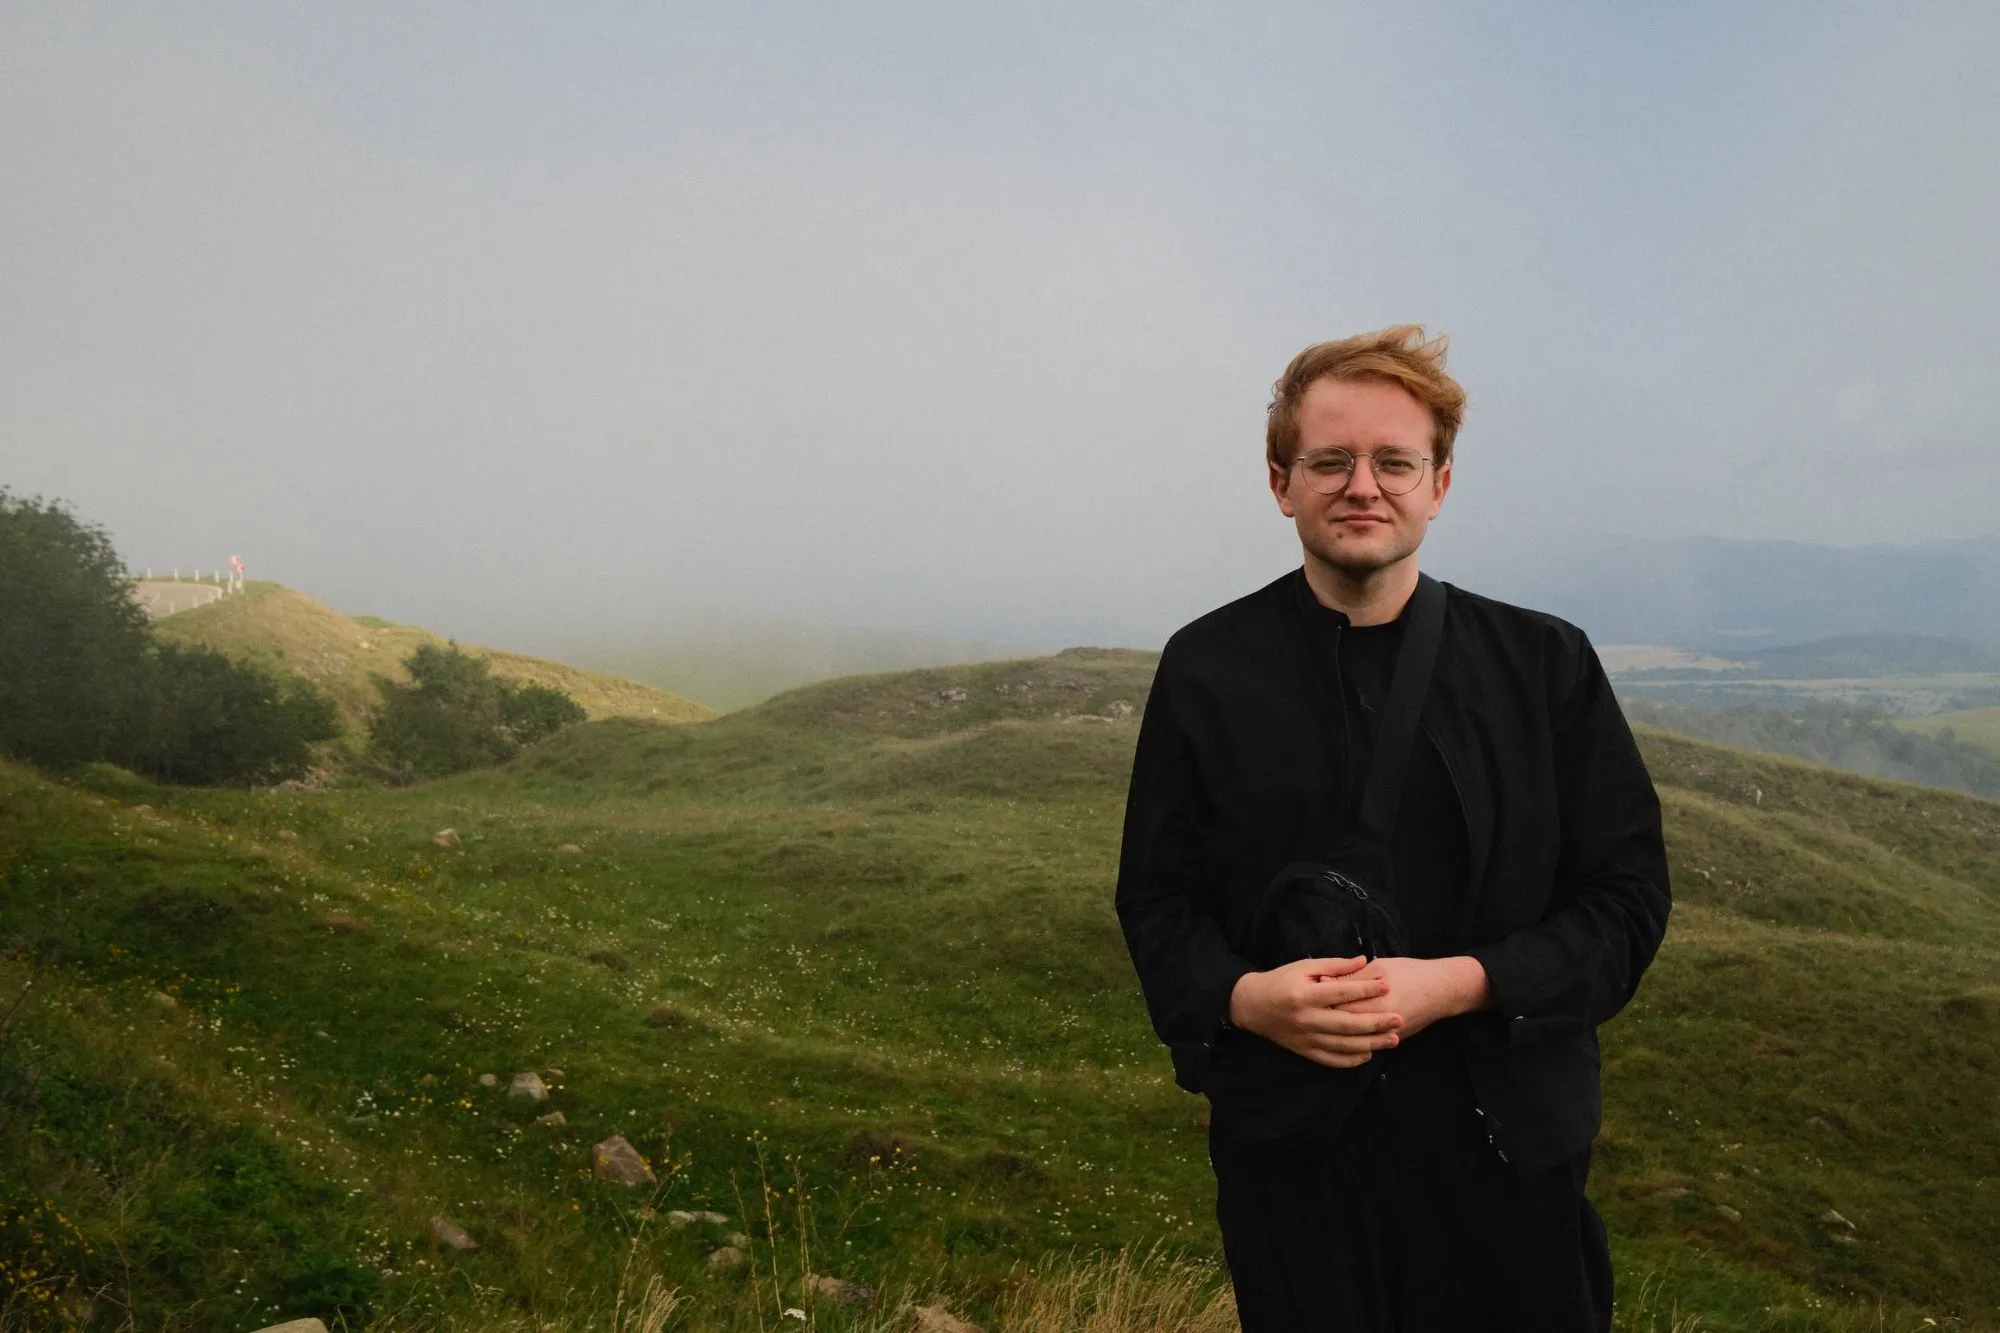
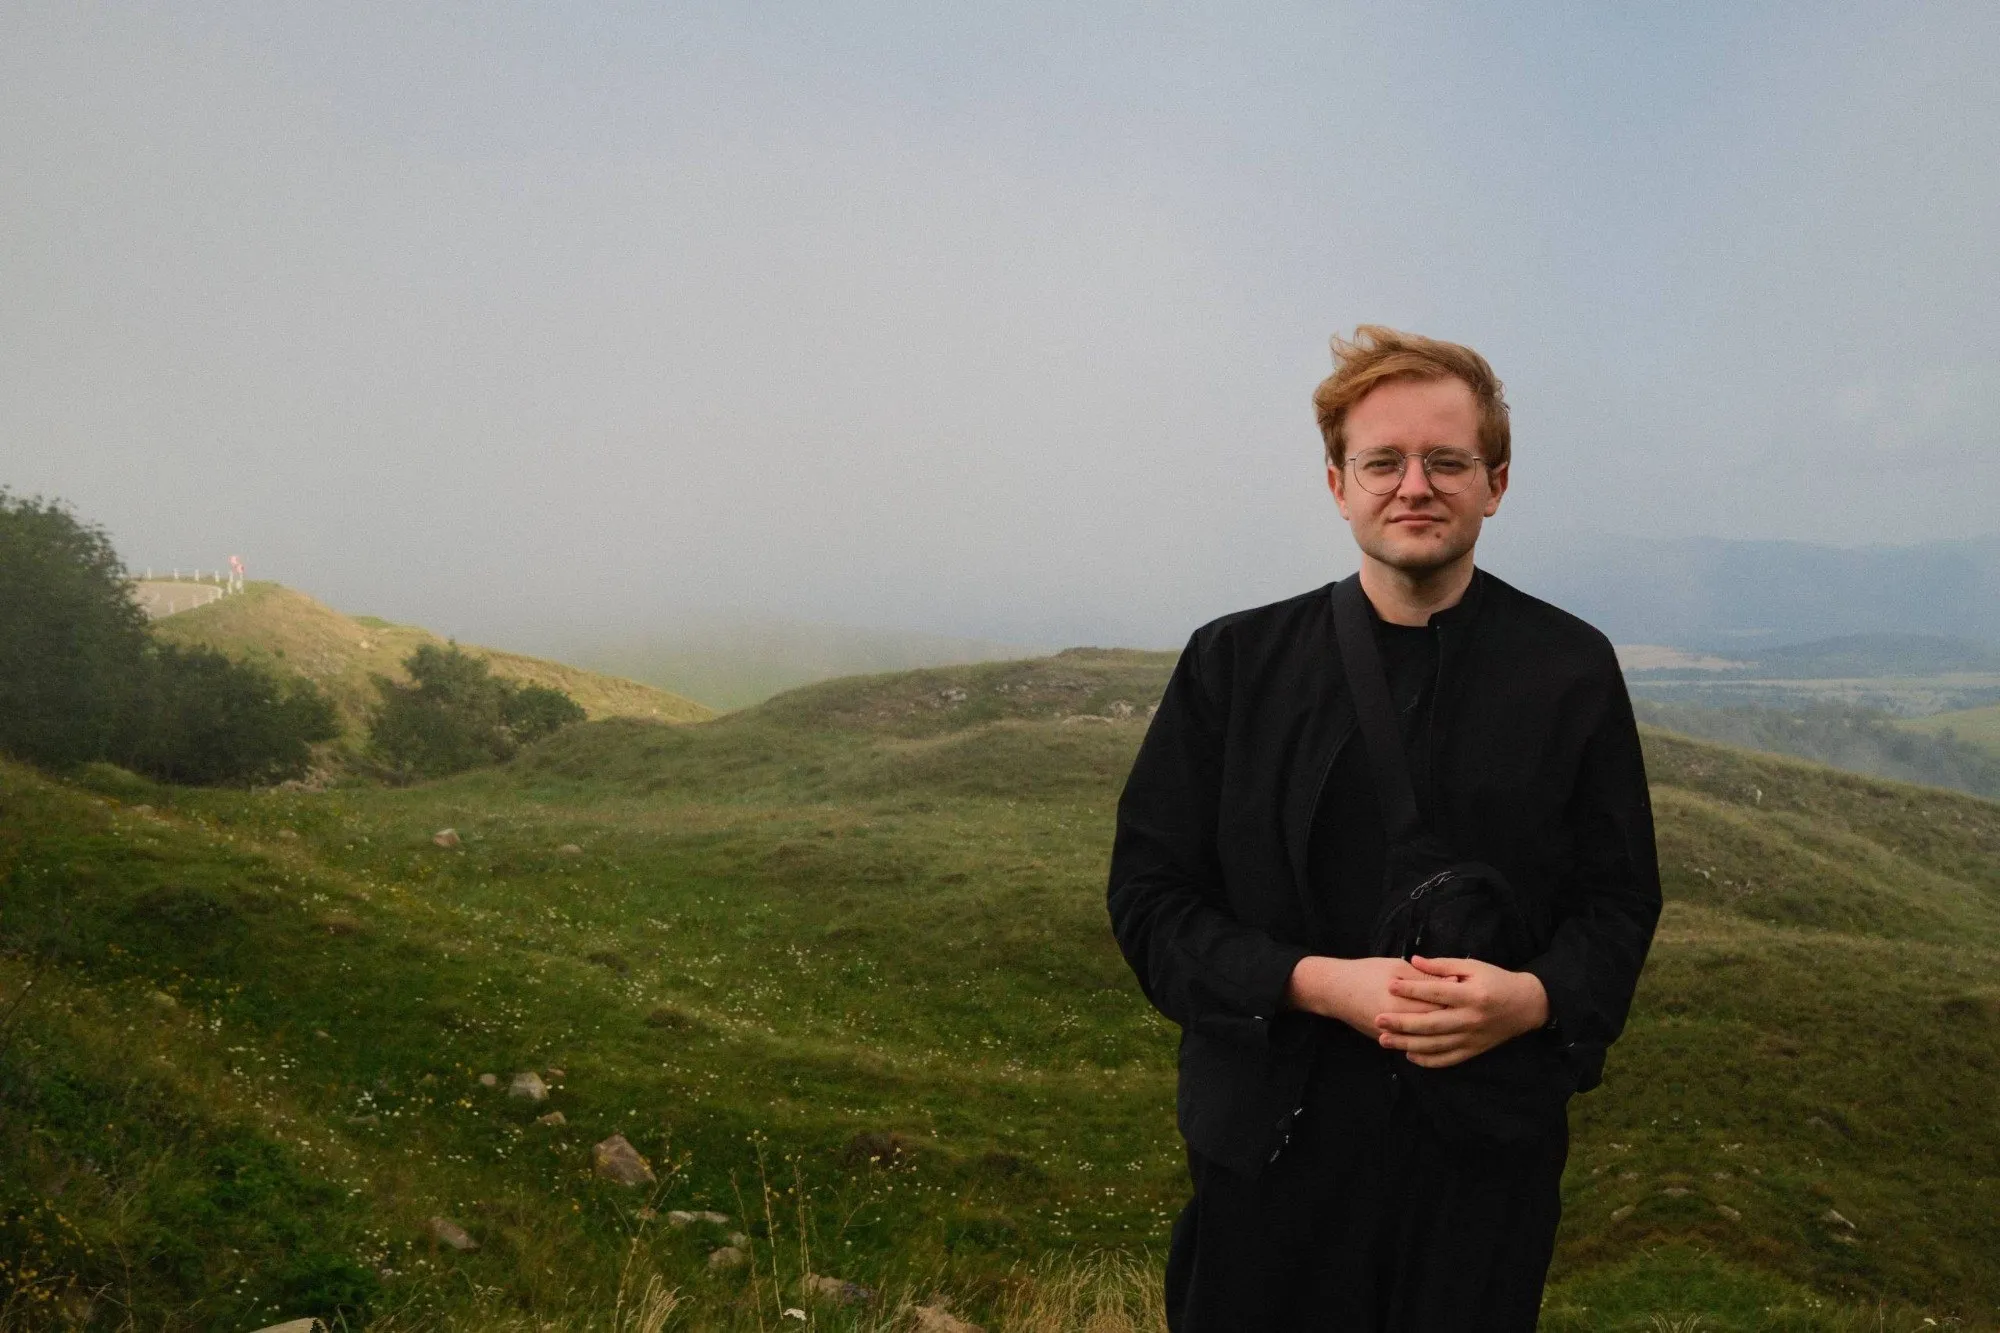
Hero photo: keep the person in his real orientation
The landscape stays mirrored so he stands on the right; the person is cut out
and flipped back in place, edges filled from the neighbouring background.

diff --git a/DESIGN.md b/DESIGN.md
@@ -161,7 +161,7 @@ A white page written like a Californian product launch, by a designer. The work 
 
 Density is generous and calm: wide sections (88 to 144px apart), a 1200px measure, headings set tight and heavy in Geist, body set soft in grey. Depth comes from tone (white against light grey), never from lines, glows or glass. Motion is a single quiet entrance on the first screen and small 200ms state changes everywhere else.
 
-This system replaces the retired "Glass Departures Board" world entirely (graphite, smoke, oxide LED, Urbanist, glass panels). The first viewport is a full-bleed photograph of Pavel on a misty hillside, mirrored so he stands on the right, with the promise set in white over the hills, the way OpenAI opens its pages.
+This system replaces the retired "Glass Departures Board" world entirely (graphite, smoke, oxide LED, Urbanist, glass panels). The first viewport is a full-bleed photograph of Pavel on a misty hillside, with the landscape mirrored so he stands on the right and the person kept in his real orientation, with the promise set in white over the hills, the way OpenAI opens its pages.
 
 **Key Characteristics:**
 - Pure white ground, near-black ink, one reading grey, one light-grey tile; no accent hue.
@@ -219,7 +219,7 @@ A monochrome Apple-light palette: ink, a softened ink, one grey, and two steps o
 
 A centred 1200px measure with a fluid gutter (`clamp(20px, 5vw, 64px)`), sections separated by space alone (`clamp(88px, 10vw, 144px)`). A sticky 64px header (60px under 900px) of frosted white sits over everything.
 
-- **Hero:** a full-bleed photograph (`hero-hills`, mirrored) filling the first viewport (`max(560px, min(100svh, 1040px))`), the header floating transparent over its sky until the page scrolls. Copy sits bottom-left on the page measure, over the hills, with a low dark scrim (bottom 70% of the height) behind it; the person stands on the right. On phones the photo is positioned on the person (`74% 30%`) and the copy sits over the lower half. A row of five grey company logos (50% opacity, full on hover) sits below, each linking to its case.
+- **Hero:** a full-bleed photograph (`hero-hills`, landscape mirrored, person unmirrored) filling the first viewport (`max(560px, min(100svh, 1040px))`), the header floating transparent over its sky until the page scrolls. Copy sits bottom-left on the page measure, over the hills, with a low dark scrim (bottom 70% of the height) behind it; the person stands on the right. On phones the photo is positioned on the person (`74% 30%`) and the copy sits over the lower half. A row of five grey company logos (50% opacity, full on hover) sits below, each linking to its case.
 - **Quotes:** three in a row on desktop; at 760px and under they become a one-at-a-time carousel with arrows and dots, rotating every 7s until a person picks one.
 - **Work list:** five grid rows (years, name and role, story, proof figure, view-case control) at 28px gaps. Under 1080px the control drops under the story; under 900px each row becomes a standing grey tile; under 560px the figure stacks.
 - **AI section:** a segmented tab track over a two-column panel (copy left, numbered stages right); one column under 900px.
@@ -293,7 +293,7 @@ Five rows that read as a ledger of proof, not five links.
 - **Phones (900px and under):** every row is a standing grey tile and the control is always a labelled white pill.
 
 ### Hero Photograph (signature)
-Pavel on a green hillside in mountain fog, mirrored, served as WebP at 800/1280/2000w with a JPEG fallback. The header (ink on the light sky) floats over it; the promise is white Geist 600 with a soft text shadow; the primary action is a white pill with ink text and the secondary a white underlined link. It settles in once on load (fade with a 1.04 to 1 scale over 1.6s) and stays still under reduced motion.
+Pavel on a green hillside in mountain fog: the landscape is mirrored, the person is cut out and flipped back in place so he keeps his real orientation. Served as WebP at 800/1280/2000w with a JPEG fallback. The header (ink on the light sky) floats over it; the promise is white Geist 600 with a soft text shadow; the primary action is a white pill with ink text and the secondary a white underlined link. It settles in once on load (fade with a 1.04 to 1 scale over 1.6s) and stays still under reduced motion.
 
 ### AI Stages
 Ordered steps in a list with 32px grey circle numerals (14px/600). The only numbered device on the site, used because the order of the steps is the information.

diff --git a/.impeccable/surfaces/index-html.md b/.impeccable/surfaces/index-html.md
@@ -20,7 +20,7 @@ User (2026-10-04): the old design is too busy; wants California-startup minimali
 THESIS: A quiet white page where the work and the numbers do the talking, like a Californian product launch page written by a designer. Refuses the busy dark showcase with glass, LEDs and timelines.
 OWN-WORLD: Pure white ground, Apple light-grey tiles (#f5f5f7) for product moments only; the one photograph is the hero, near-black ink (#1d1d1f) and one grey (#636366); no accent hue, no lines, no glass, no glow. Geist (self-hosted, variable) at 600 for headings with tight tracking, 400 body at 17px. Black pill for the one primary action, grey pill for secondary, underlined text links. Product screenshots and films at 20px radius, shown sharp.
 STORY: The visitor reads the promise beside the portrait, recognises the companies, scans five work rows each carrying its proof figure, sees Subskim as a product moment, understands how Pavel uses AI and leads, and writes or downloads the CV.
-FIRST VIEWPORT: User-pinned 2026-10-04 ("make this the hero background, remove the current photo, minimalism like OpenAI with beautiful minimal text over the photo, you can mirror it"): a full-bleed photograph of Pavel on a misty green hillside, mirrored so he stands on the right, filling the first viewport. The header floats transparent over the sky. Bottom-left on the page measure, over the hills: "I build products / and the design teams / behind them." in white Geist 600 (always three lines), a white two-sentence intro, a white "Get in touch" pill and a white "View selected work" link, over a low dark scrim. Below the photo, on white, a row of five company logos in grey linking to their cases.
+FIRST VIEWPORT: User-pinned 2026-10-04 ("make this the hero background, remove the current photo, minimalism like OpenAI with beautiful minimal text over the photo, you can mirror it"): a full-bleed photograph of Pavel on a misty green hillside, with the landscape mirrored so he stands on the right and the person flipped back in place to his real orientation (user, 2026-10-04: "the person stays where he stands but mirrored"), filling the first viewport. The header floats transparent over the sky. Bottom-left on the page measure, over the hills: "I build products / and the design teams / behind them." in white Geist 600 (always three lines), a white two-sentence intro, a white "Get in touch" pill and a white "View selected work" link, over a low dark scrim. Below the photo, on white, a row of five company logos in grey linking to their cases.
 FORM: Canon, played straight (user pinned the California-startup standard; concept seed aa964abc rolled, overridden by the pinned brief). Signature moments: the hero photograph settles in once on load; work rows wash grey on hover and reveal a "View case" pill.
 FINISH: unreviewed and undocumented is unfinished; this build ends with the finish review, the verdict, DESIGN.md, and every shipping raster carrying its provenance
 

diff --git a/PRODUCT.md b/PRODUCT.md
@@ -44,7 +44,7 @@ Experience across design, product, and growth lets him connect design decisions 
 
 - Name: **Pavel Rysych**; title: **Product Design Leader**.
 - Core promise: "I build products and the design teams behind them."
-- Real portrait of Pavel (misty mountain landscape: green hills, black jacket, round glasses) is part of his identity on the site; it is the full-bleed hero photograph, mirrored.
+- Real portrait of Pavel (misty mountain landscape: green hills, black jacket, round glasses) is part of his identity on the site; it is the full-bleed hero photograph (landscape mirrored so he stands on the right; the person himself is shown in his real orientation, at his request).
 - Personal side: photography and filmmaking — attention, detail, storytelling.
 - Voice: first person, calm, specific, factual; claims tied to concrete episodes. No inflated titles or unverified attributions.
 
